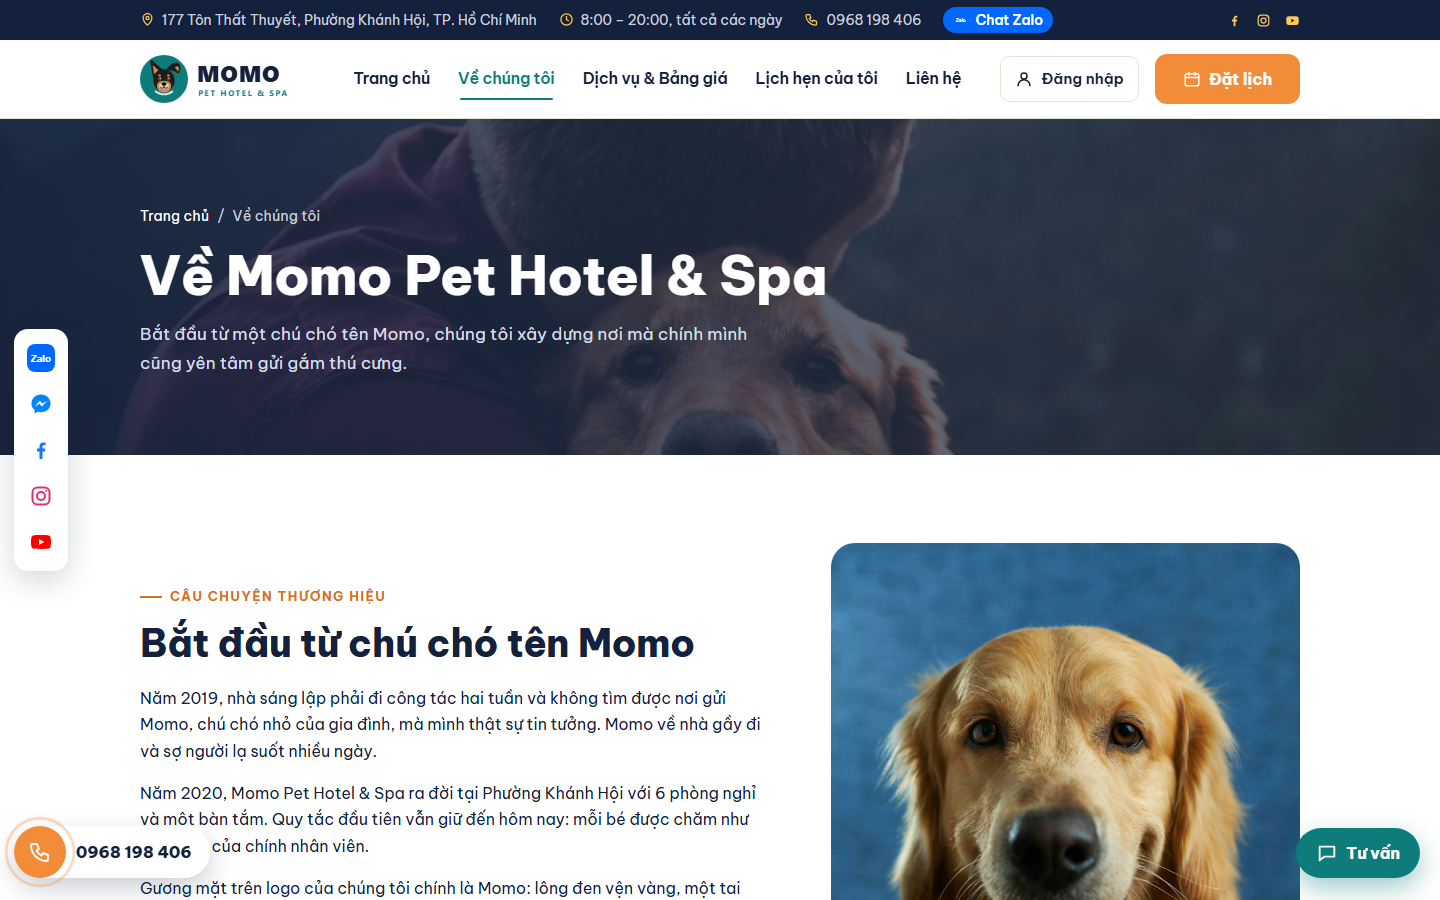
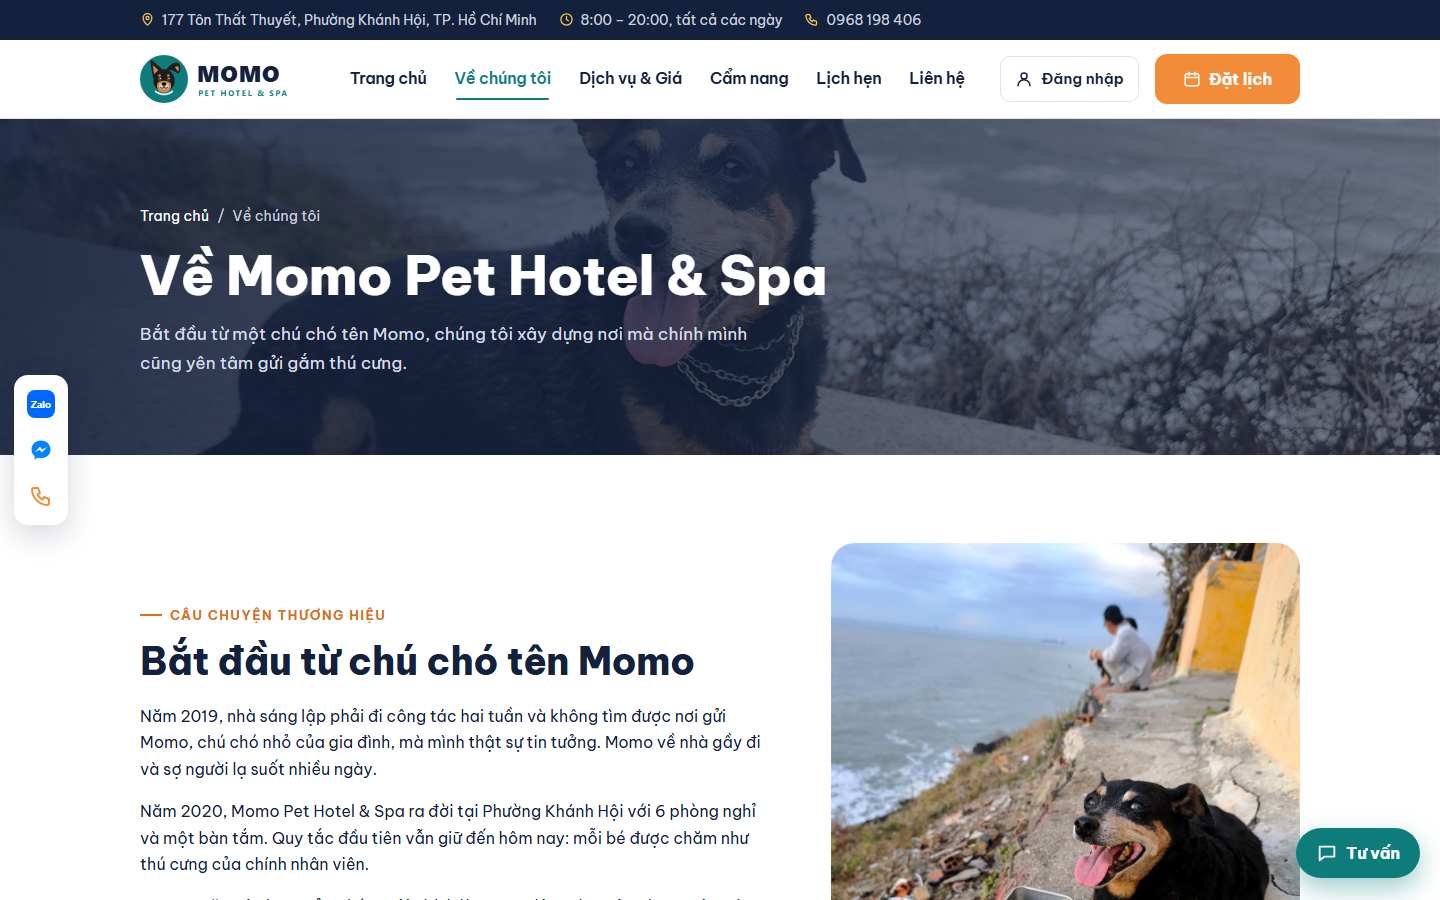
Chụp lại ảnh báo cáo (Trang chủ, Về chúng tôi, Dịch vụ, Cẩm nang, Bài viết); mô tả trang Dịch vụ có dịch vụ tại nhà

diff --git a/services.html b/services.html
@@ -47,7 +47,7 @@
       <div class="container">
         <nav class="crumbs" aria-label="Đường dẫn"><a href="index.html">Trang chủ</a><span>/</span><span>Dịch vụ &amp; Bảng giá</span></nav>
         <h1>Dịch vụ &amp; Bảng giá</h1>
-        <p>Spa, khách sạn và combo cho chó mèo. Chọn một gói để xem chi tiết và đặt lịch trực tuyến.</p>
+        <p>Spa, khách sạn, combo và dịch vụ tại nhà cho chó mèo. Chọn một gói để xem chi tiết và đặt lịch trực tuyến.</p>
       </div>
     </section>
 

diff --git a/tools/gen_pages.py b/tools/gen_pages.py
@@ -560,7 +560,7 @@ page("about.html", "about", "Về chúng tôi",
 page("services.html", "services", "Dịch vụ & Bảng giá",
      "Các gói spa, khách sạn và combo chăm sóc chó mèo tại Momo Pet Hotel & Spa, Khánh Hội.",
      page_hero("room-deluxe.jpg", "Dịch vụ &amp; Bảng giá", "Dịch vụ &amp; Bảng giá",
-               "Spa, khách sạn và combo cho chó mèo. Chọn một gói để xem chi tiết và đặt lịch trực tuyến.") + f"""
+               "Spa, khách sạn, combo và dịch vụ tại nhà cho chó mèo. Chọn một gói để xem chi tiết và đặt lịch trực tuyến.") + f"""
     <section class="section">
       <div class="container">
         <div class="filters" id="filters" role="group" aria-label="Lọc theo nhóm dịch vụ"></div>

diff --git a/BAOCAO.md b/BAOCAO.md
@@ -65,6 +65,10 @@ Website có 14 trang. Tất cả các trang khách dùng chung header (menu) và
 |---|---|
 | ![Quên mật khẩu](docs/screenshots/forgot-password.png) | ![Quản trị](docs/screenshots/admin.jpg) |
 
+| Cẩm nang | Bài viết |
+|---|---|
+| ![Cẩm nang](docs/screenshots/cam-nang.png) | ![Bài viết](docs/screenshots/bai-viet.png) |
+
 ## 3. Các chức năng được thực hiện
 
 ### 3.1. Database Supabase
